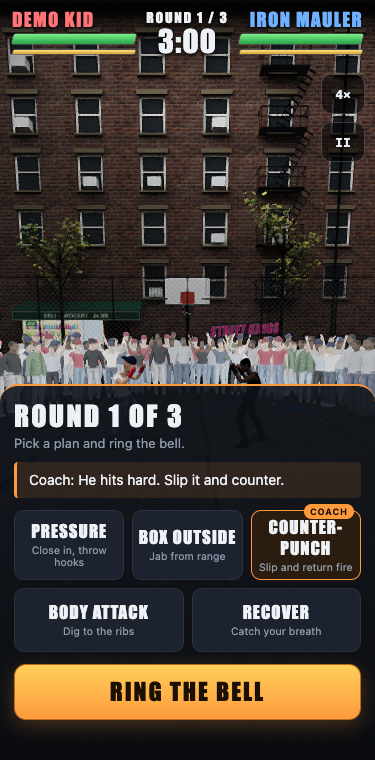
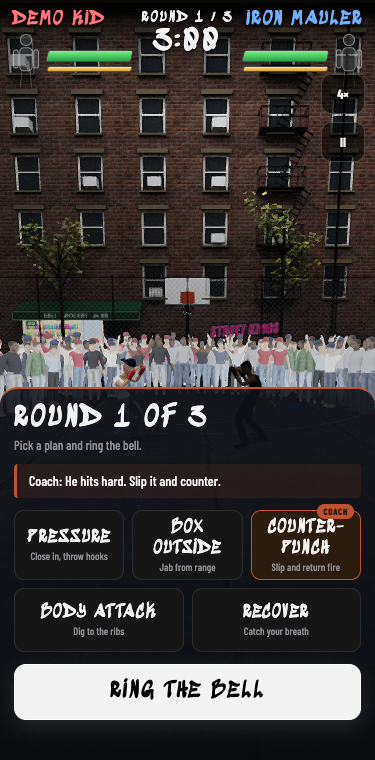
Damage on screen: HUD body silhouette and result damage card (BOX-9)

diff --git a/public/boxing/index.html b/public/boxing/index.html
@@ -179,6 +179,23 @@
   .side.blue { text-align: right; }
   .side .nm { font: 400 19px/1 var(--display); letter-spacing: .07em; text-transform: uppercase; text-shadow: 0 2px 4px #000; white-space: nowrap; overflow: hidden; text-overflow: ellipsis; }
   .side.red .nm { color: #ff7478; } .side.blue .nm { color: #6fb0ff; }
+  .vit { display: flex; align-items: center; gap: 7px; }
+  .side.blue .vit { flex-direction: row-reverse; }
+  .vit .bars { flex: 1; min-width: 0; display: grid; gap: 4px; }
+  .sil { display: block; flex: none; width: 28px; height: 56px; overflow: visible; filter: drop-shadow(0 1px 3px #000); }
+  .sil.big { width: 64px; height: 128px; }
+  .sil .base { fill: rgba(255,255,255,.14); stroke: rgba(255,255,255,.55); stroke-width: 1.2; }
+  .sil .leg { fill: none; stroke: rgba(255,255,255,.3); stroke-width: 1; }
+  .sil .zone { fill: rgba(255,255,255,.14); stroke: rgba(255,255,255,.55); stroke-width: 1.2; transition: fill .35s, fill-opacity .35s; transform-box: fill-box; transform-origin: center; }
+  .sil .zone.hit { animation: zonehit .5s ease-out; }
+  @keyframes zonehit { 0% { transform: scale(1.35); filter: brightness(2.2); } 100% { transform: scale(1); filter: none; } }
+  .dmg-grid { display: grid; grid-template-columns: 1fr 1fr; gap: 12px; text-align: center; }
+  .dmg-grid .who { font: 400 15px var(--display); letter-spacing: .1em; text-transform: uppercase; margin-bottom: 6px; }
+  .dmg-fig { display: flex; align-items: center; justify-content: center; gap: 12px; }
+  .dmg-list { display: grid; gap: 5px; text-align: left; font-size: 12.5px; }
+  .dmg-list b { font: 400 17px/1 var(--display); color: var(--accent); margin-right: 4px; }
+  .dmg-list span { display: block; font-size: 10.5px; letter-spacing: .1em; text-transform: uppercase; color: var(--muted); }
+  .dmg-note { margin: 10px 0 0; font-size: 11.5px; color: var(--muted); }
   .meter { position: relative; height: 12px; background: rgba(0,0,0,.6); border: 1px solid rgba(255,255,255,.25); border-radius: 3px; overflow: hidden; transform: skewX(-14deg); }
   .meter.gas { height: 6px; border-radius: 2px; }
   .meter i, .meter b { position: absolute; inset: 0 auto 0 0; width: 100%; }
@@ -452,9 +469,9 @@
   <div id="ring"></div>
   <div class="flash" id="flash"></div>
   <div class="hud" aria-label="Fight status">
-    <div class="side red"><div class="nm" id="red-name">Red</div><div class="meter hp" id="red-hpm"><b id="red-hpg"></b><i id="red-hp"></i></div><div class="meter gas"><i id="red-gas"></i></div></div>
+    <div class="side red"><div class="nm" id="red-name">Red</div><div class="vit"><span id="red-sil"></span><div class="bars"><div class="meter hp" id="red-hpm"><b id="red-hpg"></b><i id="red-hp"></i></div><div class="meter gas"><i id="red-gas"></i></div></div></div></div>
     <div class="mid"><div id="round-lbl">ROUND 1</div><div id="clock">3:00</div></div>
-    <div class="side blue"><div class="nm" id="blue-name">Blue</div><div class="meter hp" id="blue-hpm"><b id="blue-hpg"></b><i id="blue-hp"></i></div><div class="meter gas"><i id="blue-gas"></i></div></div>
+    <div class="side blue"><div class="nm" id="blue-name">Blue</div><div class="vit"><span id="blue-sil"></span><div class="bars"><div class="meter hp" id="blue-hpm"><b id="blue-hpg"></b><i id="blue-hp"></i></div><div class="meter gas"><i id="blue-gas"></i></div></div></div></div>
   </div>
   <div class="hud-btns"><button id="speed-btn" aria-label="Fight speed">4×</button><button id="quit-btn" aria-label="Leave the fight">II</button></div>
   <div class="strip" id="strip"><span class="chip" id="tactic-chip"></span></div>
@@ -511,7 +528,7 @@ import { createArena3D } from './arena-babylon.js';
 import { LOOK_OPTIONS, PHOTO_OUTFITS, normalizeLook } from './boxer-model.js';
 import { createLookPreview } from './look-preview.js';
 import { profileOf, receivedProfile } from './profile.js';
-import { SCREENS, navigate, statCost, REWARDS, outcomeOf, UNLOCKS, unlockFor, isUnlocked, lockedLook, newUnlocks, scorecard, fightStats, cornerTip, TACTIC_BLURB, SPEEDS, normalizeSettings } from './flow.js';
+import { SCREENS, navigate, statCost, REWARDS, outcomeOf, UNLOCKS, unlockFor, isUnlocked, lockedLook, newUnlocks, scorecard, fightStats, emptyDamage, recordDamage, zoneHeat, DAMAGE_ZONES, cornerTip, TACTIC_BLURB, SPEEDS, normalizeSettings } from './flow.js';
 import { ENERGY, TIERS, newCareer, normalizeCareer, effectiveStats, conditionPenalty, ladder, rankOf, tierIndex, offersFor, rest, applyFight, canDrill, DRILLS, markerAt, drillResult, applyDrill, trainerTip } from './career.js';
 import { createSfx } from './sfx.js';
 
@@ -525,6 +542,32 @@ const randomSeed = () => crypto.getRandomValues(new Uint32Array(1))[0];
 const uid = () => Date.now().toString(36) + Math.random().toString(36).slice(2, 6);
 const wait = (ms) => new Promise((r) => setTimeout(r, ms));
 const STAT_LABEL = { speed: 'Speed', power: 'Power', stamina: 'Stamina', ringIQ: 'Ring IQ' };
+const SVGNS = 'http://www.w3.org/2000/svg';
+const svgEl = (tag, attrs = {}, ...kids) => { const n = document.createElementNS(SVGNS, tag); for (const k in attrs) n.setAttribute(k, attrs[k]); n.append(...kids); return n; };
+/** A body silhouette; zones are head, body and guard (the arms, for blocked shots). */
+function silhouette(big = false) {
+  const z = (zone, tag, a) => svgEl(tag, { class: 'zone', 'data-zone': zone, ...a });
+  const svg = svgEl('svg', { viewBox: '0 0 40 80', class: `sil${big ? ' big' : ''}`, 'aria-hidden': 'true' },
+    svgEl('path', { class: 'leg', d: 'M14 54 L12 78 M26 54 L28 78' }),
+    z('guard', 'rect', { x: 2, y: 24, width: 7, height: 26, rx: 3.5 }),
+    z('guard', 'rect', { x: 31, y: 24, width: 7, height: 26, rx: 3.5 }),
+    z('body', 'rect', { x: 11, y: 21, width: 18, height: 33, rx: 6 }),
+    z('head', 'circle', { cx: 20, cy: 10, r: 8 }));
+  return svg;
+}
+/** Tints the silhouette's zones from a damage tally; `pulse` flashes one zone. */
+function paintSilhouette(svg, tally, pulse = null) {
+  for (const n of svg.querySelectorAll('.zone')) {
+    const h = zoneHeat(tally[n.dataset.zone].damage);
+    n.style.fill = h ? `hsl(${Math.round(40 - 40 * h)} 95% ${Math.round(62 - 8 * h)}%)` : '';
+    n.style.fillOpacity = h ? String(0.6 + 0.4 * h) : '';
+    if (pulse && n.dataset.zone === pulse && !matchMedia('(prefers-reduced-motion: reduce)').matches) {
+      n.classList.remove('hit'); void n.getBoundingClientRect(); n.classList.add('hit');
+    }
+  }
+}
+const hudSil = { red: silhouette(), blue: silhouette() };
+$('red-sil').replaceWith(hudSil.red); $('blue-sil').replaceWith(hudSil.blue);
 const DEBUG = new URLSearchParams(location.search).has('debug');
 
 const db = new GameDB();
@@ -875,6 +918,8 @@ function startMatch({ mode, seed, matchId, rounds, red, blue, myCorner, career =
   state.match = { mode, seed, matchId, myCorner, career, fighters: { red: red.stats, blue: blue.stats }, names: { red: red.name, blue: blue.name } };
   state.corners = {};           // corner calls received for the next round (P2P)
   state.result = null;
+  state.damage = emptyDamage();
+  for (const c of ['red', 'blue']) paintSilhouette(hudSil[c], state.damage[c]);
 
   sim.on('exchange', onExchange);
   sim.on('round_end', onRoundEnd);
@@ -997,6 +1042,7 @@ function flash(kind, strength) {
 }
 function onImpact(p) {
   const mine = state.match?.myCorner;
+  if (state.damage) { const z = recordDamage(state.damage, p); if (z) paintSilhouette(hudSil[p.defender], state.damage[p.defender], z); }
   if (p.outcome === 'landed') {
     sfx.hit(p.transferredJoules);
     const big = p.transferredJoules > 140 || (p.target !== 'body' && p.type !== 'jab' && p.transferredJoules > 100);
@@ -1040,7 +1086,7 @@ async function onFightEnd(result) {
   state.hasSaved = true;
   state.result = {
     outcome, method: result.method, ko, names: m.names, myCorner: m.myCorner, mode: m.mode,
-    card: scorecard(sim.rounds), stats: fightStats(sim.rounds), cards: result.cards,
+    card: scorecard(sim.rounds), stats: fightStats(sim.rounds), damage: structuredClone(state.damage), cards: result.cards,
     before, after: { ...state.fighter.record }, gained: REWARDS[outcome], pointsAfter: state.fighter.points, pointsBefore,
     unlocked: newUnlocks(before.w, state.fighter.record.w), career: careerResult,
   };
@@ -1083,6 +1129,7 @@ function renderResult() {
       ...pair('landed', `${s[mine].landed}/${s[mine].thrown}`, `${s[theirs].landed}/${s[theirs].thrown}`),
       ...pair('accuracy', `${acc(mine)}%`, `${acc(theirs)}%`),
       ...pair('power', `${s[mine].joules.toFixed(0)} J`, `${s[theirs].joules.toFixed(0)} J`))),
+    damageCard(r),
     el('div', { className: 'card reward' },
       el('div', {}, el('b', { textContent: `+${r.gained}` }), el('span', { textContent: 'XP · training points' })),
       el('div', {}, el('b', { textContent: `${rec('w')}-${rec('l')}-${rec('d')}` }), el('span', { textContent: `record (${recChanged === 'w' ? 'win' : recChanged === 'l' ? 'loss' : 'draw'} added)` })),
@@ -1097,6 +1144,24 @@ function renderResult() {
       el('button', { className: 'big ghost', textContent: 'Title', onclick: () => { sfx.click(); go('title'); } })));
   body.scrollTop = 0;
   setTimeout(() => { if (state.screen === 'result') (r.outcome === 'w' ? sfx.win() : r.outcome === 'l' ? sfx.lose() : sfx.click()); }, verdictAt * 1000);
+}
+
+const ZONE_LABEL = { head: 'Head', body: 'Body', guard: 'Blocked (arms)' };
+function damageCard(r) {
+  const mine = r.myCorner, theirs = mine === 'red' ? 'blue' : 'red';
+  const col = (c) => {
+    const fig = silhouette(true);
+    paintSilhouette(fig, r.damage[c]);
+    return el('div', {}, el('div', { className: 'who', textContent: `${r.names[c]} took` }),
+      el('div', { className: 'dmg-fig' }, fig,
+        el('div', { className: 'dmg-list' }, ...DAMAGE_ZONES.map((z) => {
+          const d = r.damage[c][z];
+          return el('div', {}, el('b', { textContent: d.damage.toFixed(1) }), el('span', { textContent: `${ZONE_LABEL[z]} · ${d.hits} ${d.hits === 1 ? 'shot' : 'shots'}` }));
+        }))));
+  };
+  return el('div', { className: 'card' }, el('h3', { textContent: 'Damage taken' }),
+    el('div', { className: 'dmg-grid' }, col(mine), col(theirs)),
+    el('p', { className: 'dmg-note', textContent: 'Health points lost by where the punch hit. The sim records head or body for landed shots; blocked shots are counted on the arms.' }));
 }
 
 // ─── Career ─────────────────────────────────────────────────────────────────

diff --git a/test/boxing.test.js b/test/boxing.test.js
@@ -299,7 +299,7 @@ test('pressure crowds a defender, but not one who is also on pressure', () => {
 });
 
 // ─── Game flow (flow.js): screens, progression, unlocks, scorecards, corner tips, settings ───
-import { SCREENS, navigate, eventsFrom, statCost, REWARDS, outcomeOf, UNLOCKS, isUnlocked, lockedLook, newUnlocks, scorecard, fightStats, cornerTip, normalizeSettings, DEFAULT_SETTINGS } from '../public/boxing/flow.js';
+import { SCREENS, navigate, eventsFrom, statCost, REWARDS, outcomeOf, UNLOCKS, isUnlocked, lockedLook, newUnlocks, scorecard, fightStats, emptyDamage, recordDamage, zoneOf, zoneHeat, DAMAGE_ZONES, cornerTip, normalizeSettings, DEFAULT_SETTINGS } from '../public/boxing/flow.js';
 
 test('screen flow: Title to Fighter to Opponent to Fight to Result and back', () => {
   let s = 'title';
@@ -533,4 +533,24 @@ test('the sim output is pinned: contact data is read-only and no listener change
   };
   assert.equal(run(false), run(true));
   assert.equal(createHash('sha256').update(run(false)).digest('hex'), PINNED_SEED_11);
+});
+
+test('damage by zone adds up the sim impacts per defender', () => {
+  const sim = new CombatSimulation({ seed: 11, rounds: 3, red: fighter('red', AVG), blue: fighter('blue', AVG) });
+  const dmg = emptyDamage(), seen = [];
+  sim.on('impact', (p) => { seen.push(p); recordDamage(dmg, p); });
+  while (sim.phase !== 'fight_over') { sim.startRound({ red: 'pressure', blue: 'body_attack' }); sim.runRoundToEnd(); }
+  assert.ok(seen.length > 0);
+  for (const c of ['red', 'blue']) {
+    const expected = seen.filter((p) => p.defender === c).reduce((s, p) => s + p.damage, 0);
+    const tally = DAMAGE_ZONES.reduce((s, z) => s + dmg[c][z].damage, 0);
+    assert.ok(Math.abs(expected - tally) < 1e-9);
+  }
+  assert.ok(dmg.red.body.hits + dmg.blue.body.hits > 0, 'body_attack lands on the body');
+  assert.equal(zoneOf({ outcome: 'landed', target: 'body' }), 'body');
+  assert.equal(zoneOf({ outcome: 'landed', target: 'head' }), 'head');
+  assert.equal(zoneOf({ outcome: 'blocked', target: 'head' }), 'guard');
+  assert.equal(zoneOf({ outcome: 'slipped', target: 'head' }), null);
+  assert.equal(zoneHeat(0), 0);
+  assert.ok(zoneHeat(0.1) >= 0.25 && zoneHeat(500) === 1);
 });

diff --git a/public/boxing/flow.js b/public/boxing/flow.js
@@ -75,6 +75,26 @@ export function fightStats(rounds) {
   return out;
 }
 
+/** Body zones for the damage silhouette. The sim records only a punch's target (head/body) and outcome, so a blocked shot is the guard zone. */
+export const DAMAGE_ZONES = ['head', 'body', 'guard'];
+export const zoneOf = (p) => (p.outcome === 'landed' ? (p.target === 'body' ? 'body' : 'head') : p.outcome === 'blocked' ? 'guard' : null);
+
+const zoneZero = () => ({ head: { damage: 0, hits: 0 }, body: { damage: 0, hits: 0 }, guard: { damage: 0, hits: 0 } });
+export const emptyDamage = () => ({ red: zoneZero(), blue: zoneZero() });
+
+/** Adds one impact record to the damage tally of the corner that took it. Returns the zone it hit, or null for a slip. */
+export function recordDamage(dmg, p) {
+  const z = zoneOf(p);
+  if (!z) return null;
+  const slot = dmg[p.defender][z];
+  slot.damage += p.damage;
+  slot.hits += 1;
+  return z;
+}
+
+/** 0..1 intensity for tinting a zone; any damage shows, 20 health points is full. */
+export const zoneHeat = (damage) => (damage > 0 ? Math.min(1, 0.25 + damage / 20) : 0);
+
 /**
  * One line from the corner and the tactic it points to. `me`/`opp` are { health, gasRatio, stats }.
  * `precedent` is the best past winner from the fight log, if any ({ tactic, label }).

diff --git a/public/boxing/HANDOFF.md b/public/boxing/HANDOFF.md
@@ -330,3 +330,7 @@ Run it with `npm run static -- 4792` (or `preview_start boxing-static`), then op
 
 ## Done (2026-10-04): UI style pass, graffiti type and monochrome (BOX-13, Boxing UI Dev)
 User style direction applied to the whole UI. Sedgwick Ave Display (graffiti: logo, titles, buttons) plus Barlow Condensed (body, numbers) are self-hosted in `public/boxing/fonts/` (OFL, licences in `fonts/CREDITS.md`), no Google request at runtime. Palette in `:root` of `index.html` is now black surfaces, white/soft-grey text and one muted ember accent (`--accent #c2512f`); primary buttons are white on black; the title scene is desaturated; logo has an ember tag underline and a slow drip (off under `prefers-reduced-motion`). Fight-canvas content (3D arena, Phaser) is unchanged. Untested: real phone/Safari font rendering; screens other than title and career intro were not eyeballed after the recolour (hurt flash, result, gym, card), only the token swap.
+
+## Done (2026-10-04): damage on screen, BOX-9 first slice (Boxing UI Dev)
+The sim records only `target` ('head'/'body') and `outcome` per punch (the `ZONE` in `physics-engine.js` is the ropes zone), so no sim change: zones are derived from those. Landed head shots -> head, landed body shots -> body, blocked shots -> arms ("Blocked"); slips hit nothing. `flow.js`: `zoneOf`, `emptyDamage`, `recordDamage`, `zoneHeat` (pure, tested). `index.html`: `silhouette()` / `paintSilhouette()`; each fighter's HUD has a small figure beside the bars whose zones tint amber to red and pulse on each hit (listens to `impact`, never writes the sim); the result screen has a "Damage taken" card with a big figure and health points and shots per zone for both fighters. Tally is reset per fight and stored in `state.result.damage`. `npm test` 271 pass; `demo-e2e.mjs` clean (new `qa/game-7b-fight-damage-*.png`, `game-8-result-*.png`).
+- Not built yet from BOX-9: between-rounds stats screen, per-round breakdown, punches by type, AI corner timeline. **Untested**: night HUD by eye, real phone, reduced-motion.
